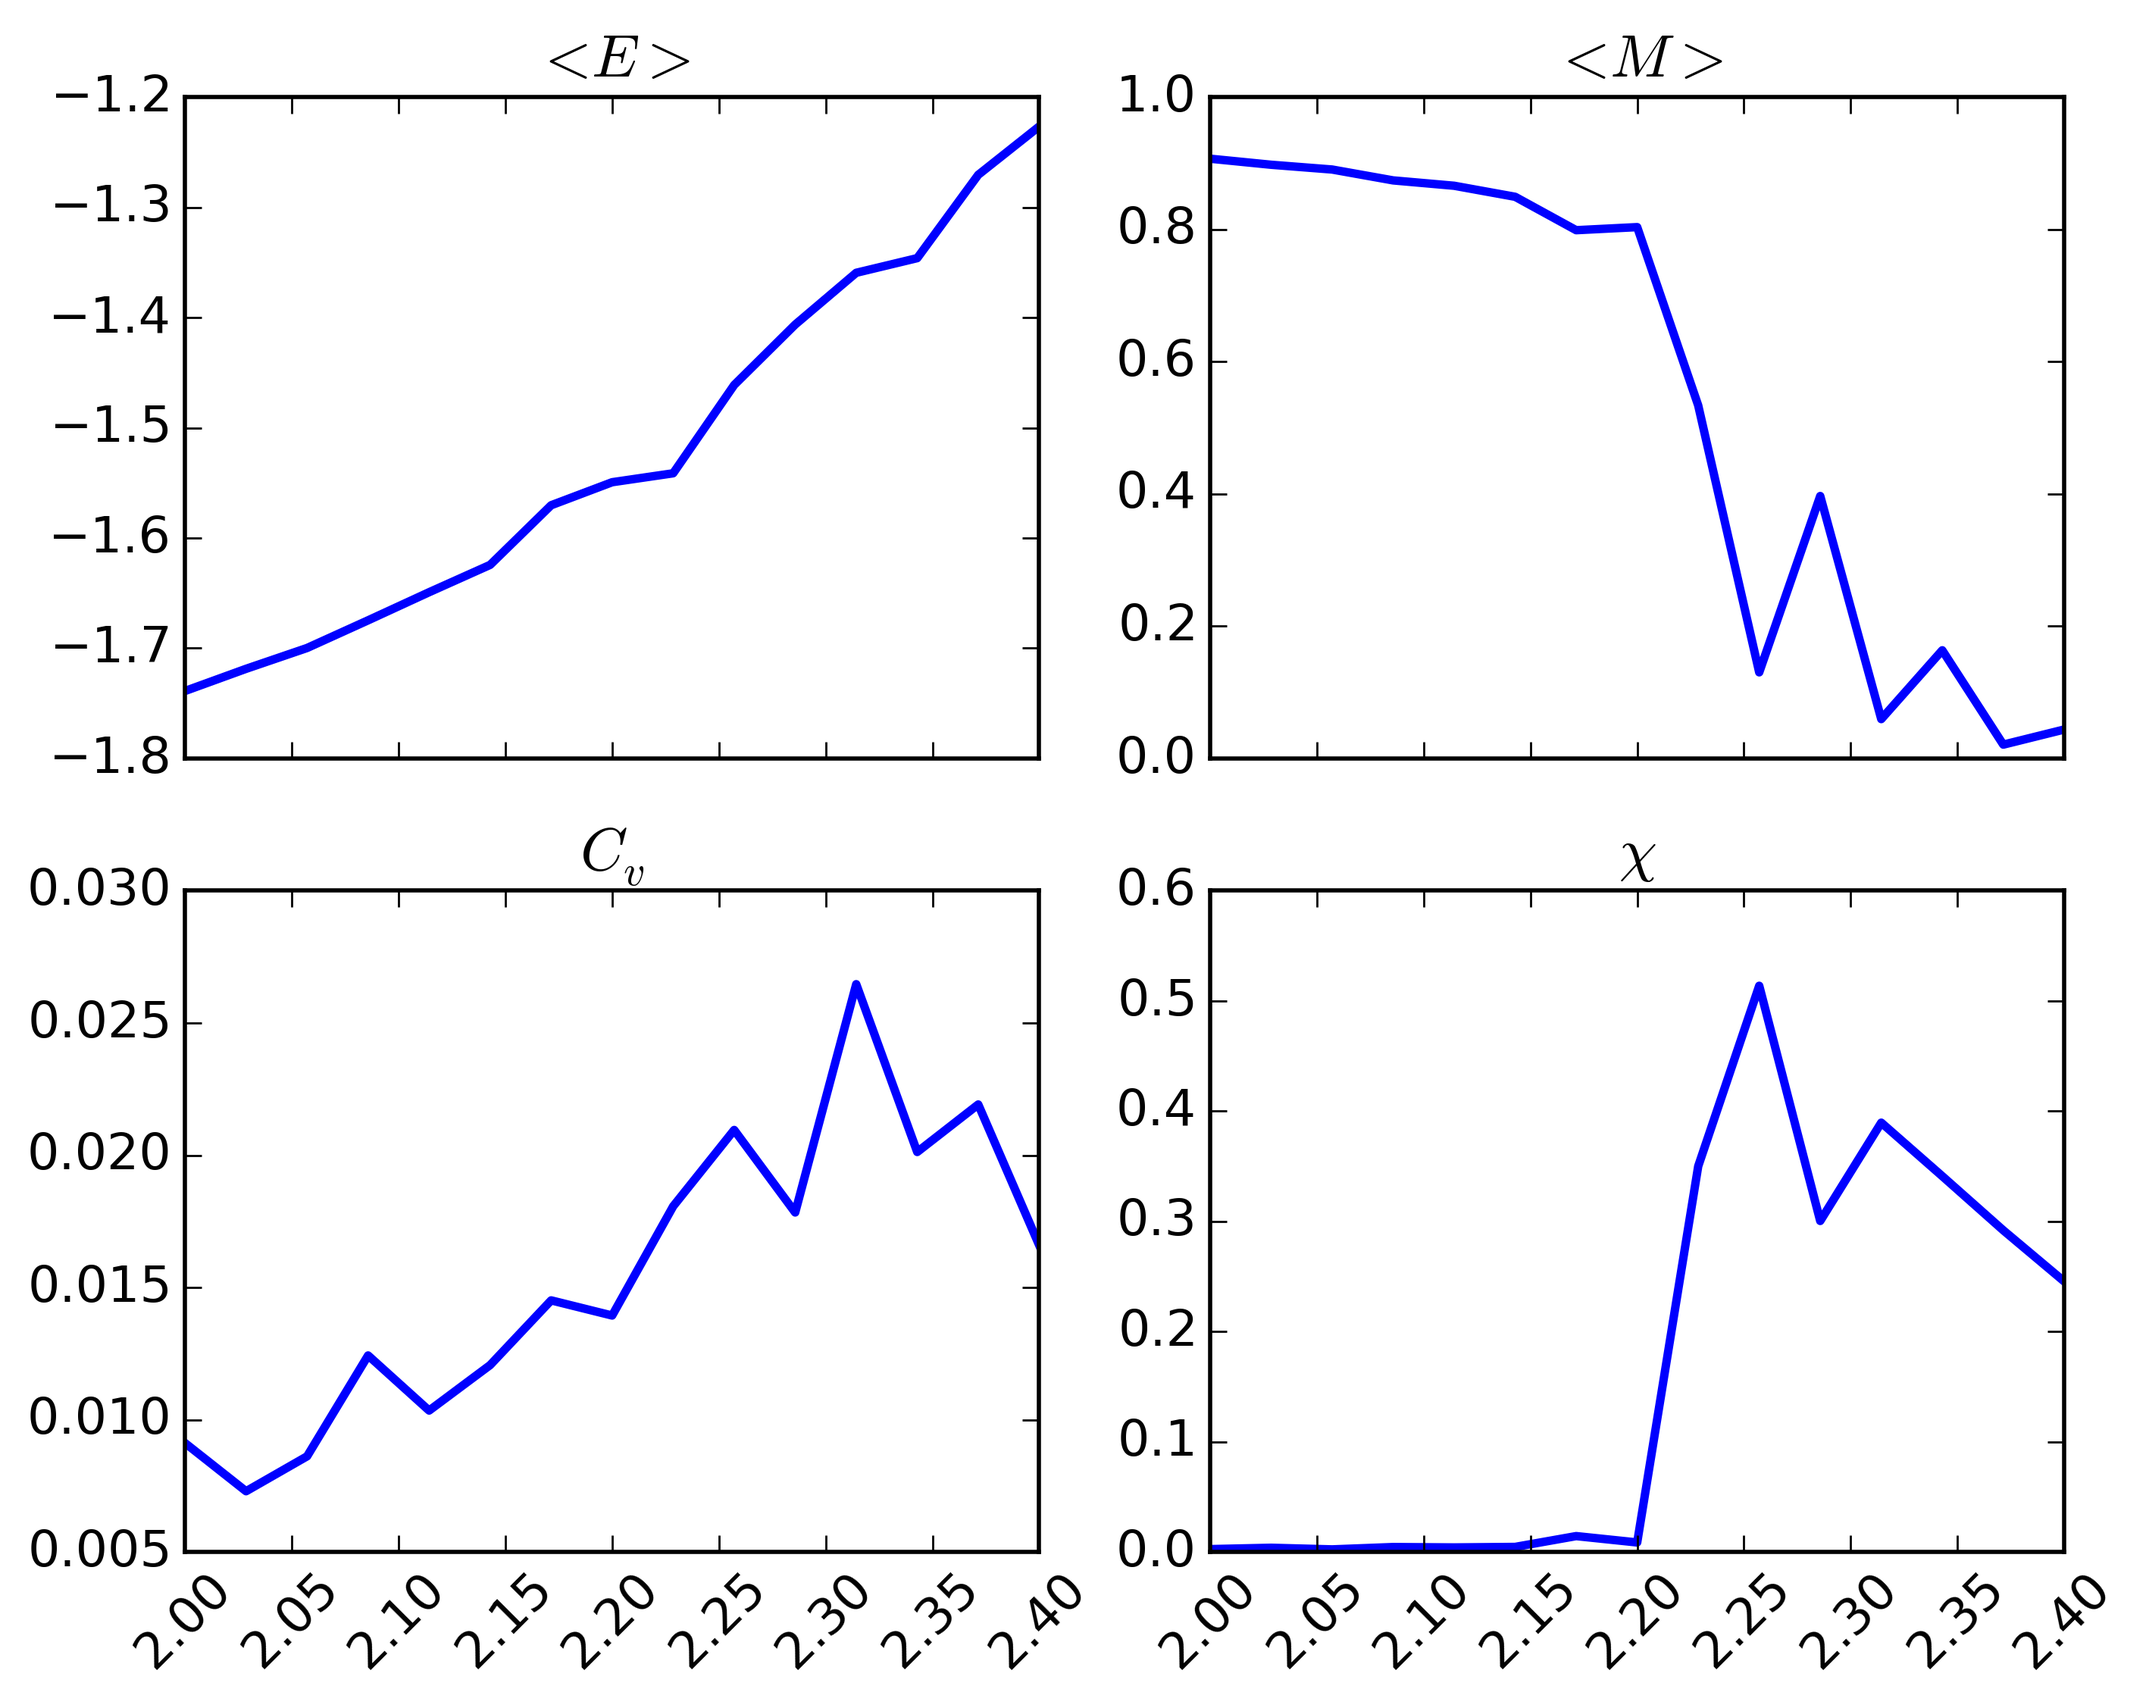
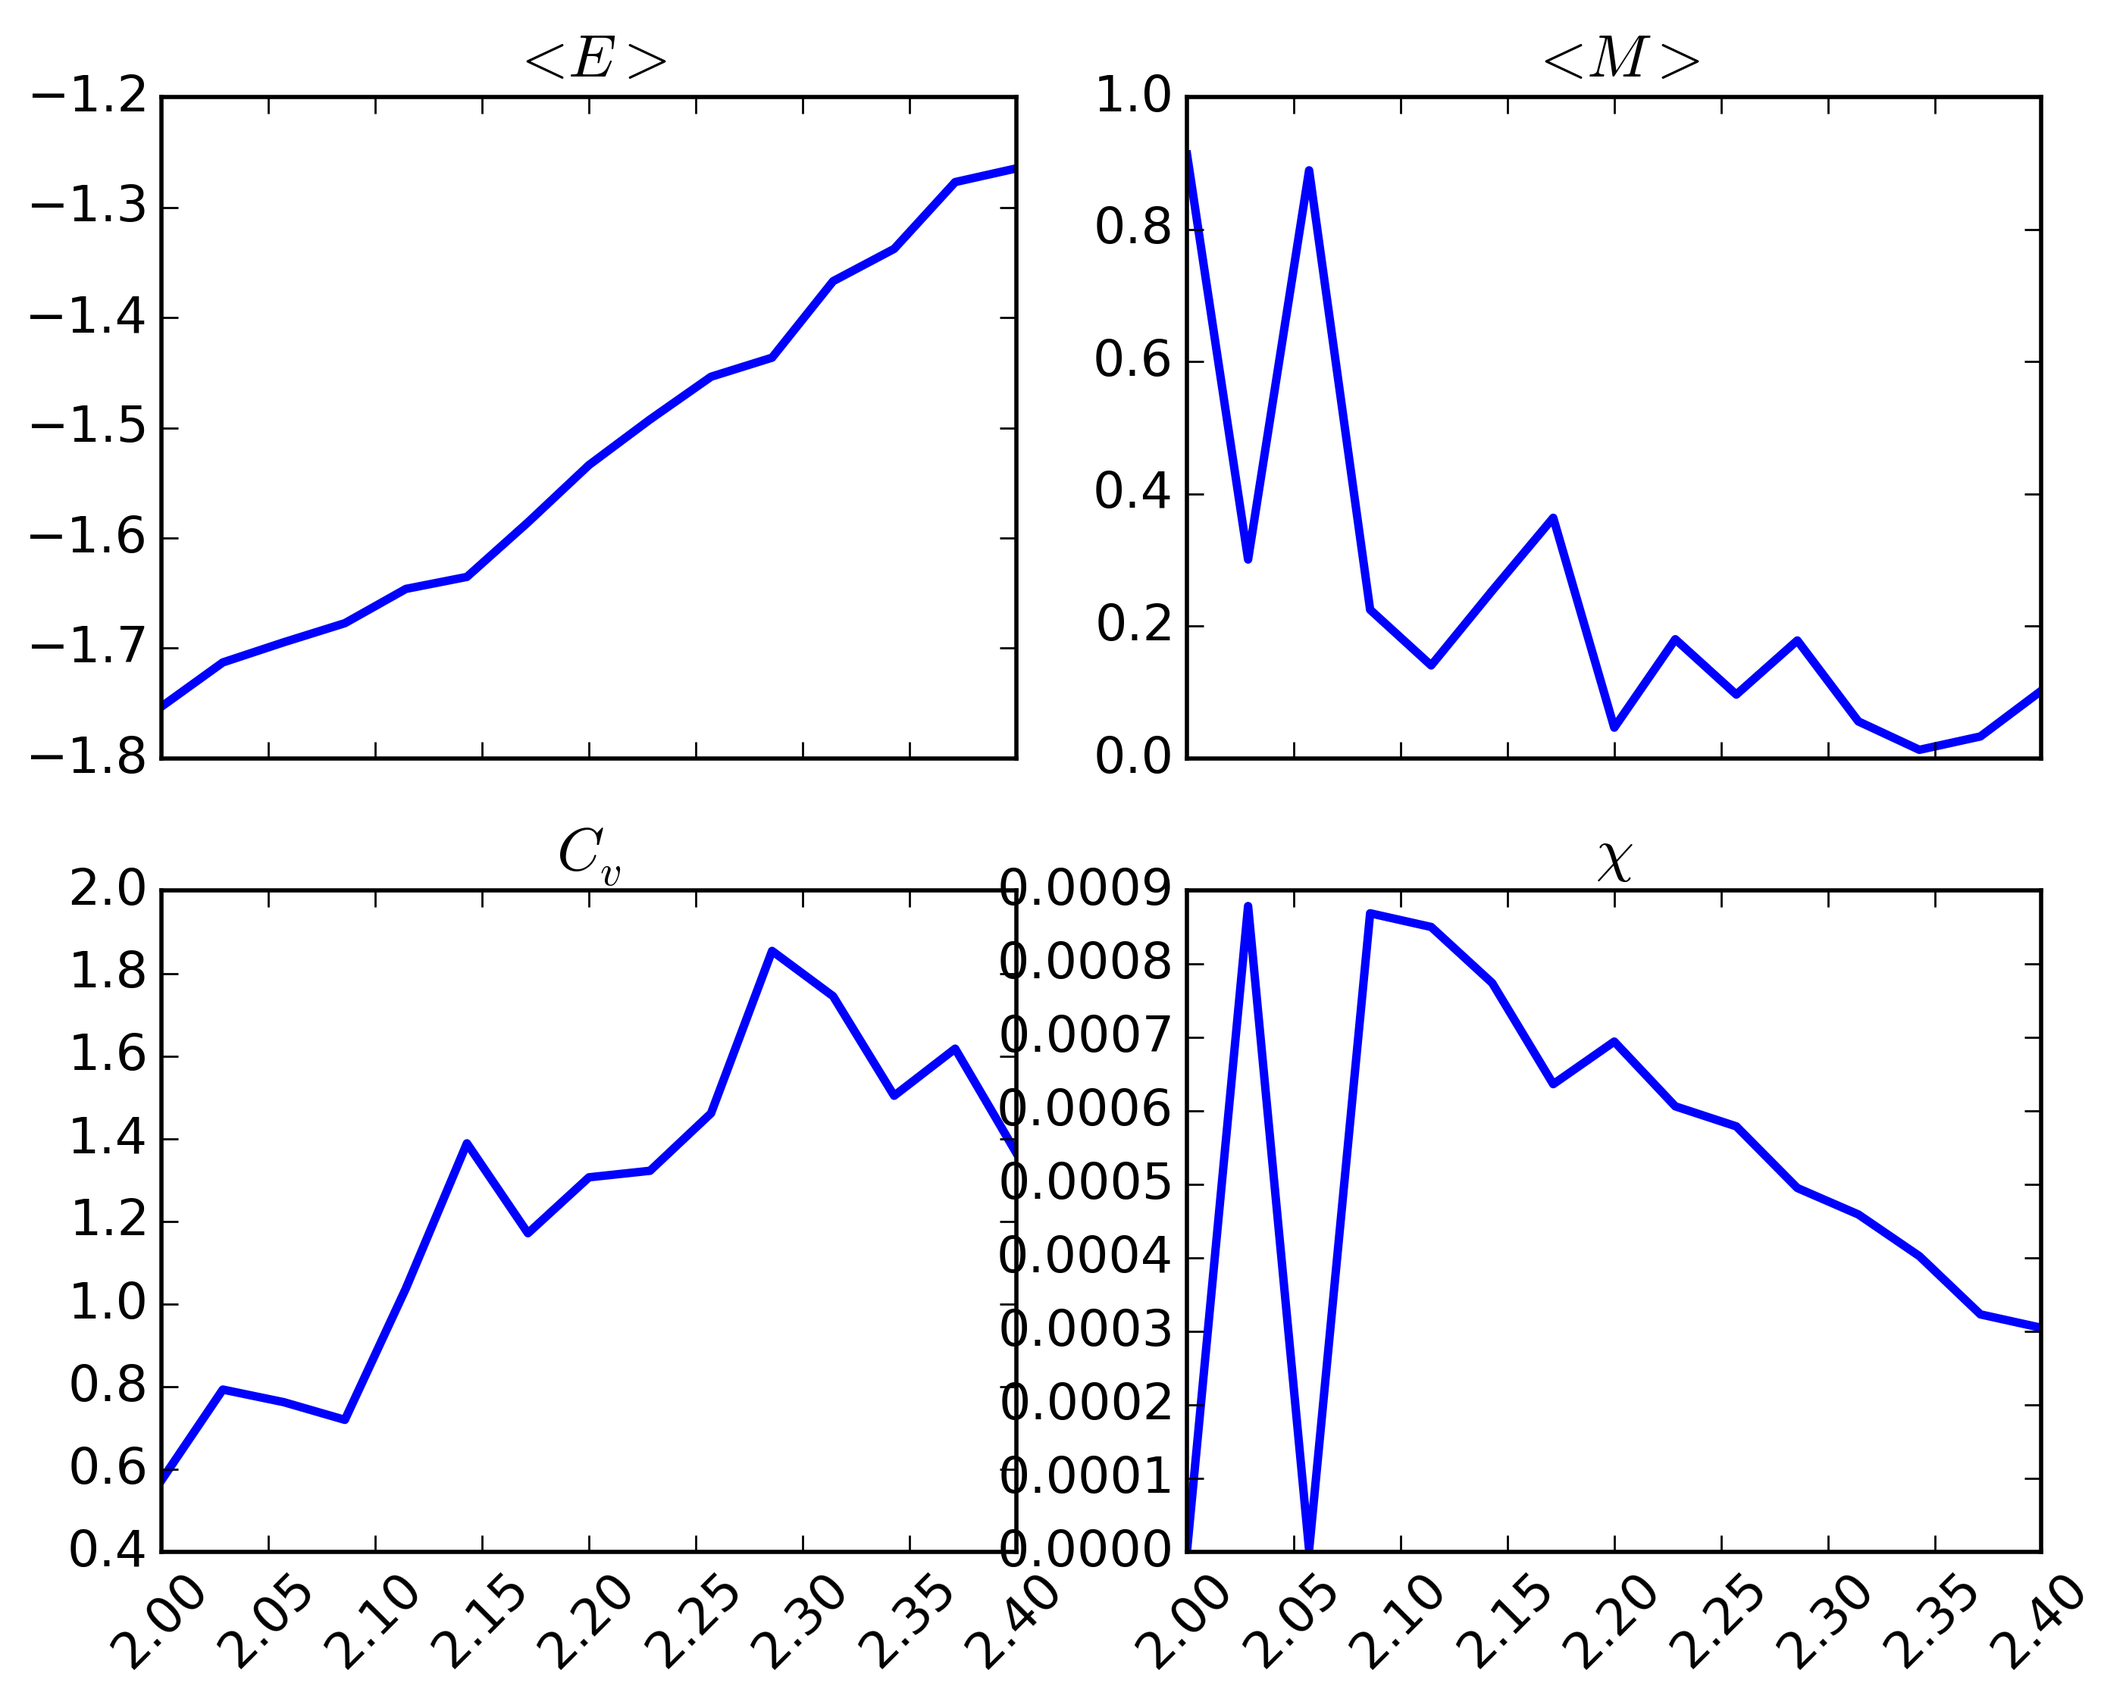
Add more pictures to project

diff --git a/Project 4/src/main.cpp b/Project 4/src/main.cpp
@@ -46,7 +46,8 @@ int main(const int argc, const char **argv)
   if (argc>2 && !std::strcmp(argv[1], "b")){
     
     const double T = std::atoi(argv[2]);
-    Ising model(2, global_seed, 1/T, 'r');
+    const double beta = 1.0/T;
+    Ising model(2, global_seed, beta, 'r');
     
     
     const int N = std::atoi(argv[2]);
@@ -57,7 +58,10 @@ int main(const int argc, const char **argv)
     
     model.find_statistics(N, 100, E, sigmaE, M, sigmaM, ar);
     
-    std::cout << E << " " << M << " " << sigmaE << " " << sigmaM << std::endl;
+    
+    
+    std::cout << E << " " << M << " " << cv(beta, 4, sigmaE) << " "
+              << chi(beta, 4, sigmaM) << std::endl;
     
   }
   
@@ -116,11 +120,9 @@ int main(const int argc, const char **argv)
     const int M = std::atoi(argv[3]);
     const int Ntherm = 5000;
     
-    Ising random(L, global_seed, 1/T, 'r');
-    //Ising ordered(L, global_seed+1, 1/T, 'u');
+    Ising random(L, global_seed, 1.0/T, 'r');
     
     random.thermalise(Ntherm);
-    //ordered.thermalise(Ntherm);
     
     std::map<int,int> E;
     
@@ -139,15 +141,15 @@ int main(const int argc, const char **argv)
     const int dim = std::atoi(argv[2]);
     
     const int Ntemps = 15;
-    const int Ntherm = 100000;
+    const int Ntherm = 1000000;
     const int Nmeasurements = 100;
   
 
   
-    double *T, *E, *Cv, *M, *chi, *ar;
+    double *T, *E, *cv, *M, *chi, *ar;
     T = new double[Ntemps];
     E = new double[Ntemps];
-    Cv = new double[Ntemps];
+    cv = new double[Ntemps];
     M = new double[Ntemps];
     chi = new double[Ntemps];
     ar = new double[Ntemps];
@@ -161,14 +163,21 @@ int main(const int argc, const char **argv)
       Ising model(dim, seed, 1/T[ii], 'r');
       model.thermalise(Ntherm);
       
-      model.find_statistics(Ntherm, Nmeasurements, E[ii], Cv[ii], M[ii], chi[ii], ar[ii]);
+      model.find_statistics(Ntherm, Nmeasurements, E[ii], cv[ii], M[ii], chi[ii], ar[ii]);
     }
     
-    print_to_file(T, E, Cv, M, chi, ar, Ntemps);
+    #pragma omp parallel for default(shared)
+    for (int ii=0; ii<Ntemps; ii++){ // modifying cv and chi to be dependent on beta and N
+      cv[ii] *= dim*dim/(T[ii]*T[ii]);
+      chi[ii] /= (dim*dim)*T[ii];
+    }
+      
+    
+    print_to_file(T, E, cv, M, chi, ar, Ntemps);
     
     delete[] T;
     delete[] E;
-    delete[] Cv;
+    delete[] cv;
     delete[] M;
     delete[] chi;
     delete[] ar;

diff --git a/Project 4/plot_ising.py b/Project 4/plot_ising.py
@@ -78,8 +78,8 @@ if (False):
   plt.xlabel('Number of MC cycles')
   plt.ylabel('Property per particle')
   plt.title('Energy and magnetism for ordered/unordered start with lattice size 20x20')
-  filename = os.path.join(saveloc, 'cEM{}.png'.format(T))
-  plt.savefig(filename,dpi=400,bbox_inches='tight')
+  pic_filename = os.path.join(saveloc, 'cEM{}.png'.format(T))
+  plt.savefig(pic_filename,dpi=400,bbox_inches='tight')
   plt.show()
 
   plt.plot(ao,label='Ordered start',linewidth=2)
@@ -90,8 +90,8 @@ if (False):
   plt.xlabel('Number of MC cycles')
   plt.ylabel('Accumulated accepted flips')
   plt.title('Number of acceptances for ordered/unordered start with lattice size 20x20')
-  filename = os.path.join(saveloc, 'cA{}.png'.format(T))
-  plt.savefig(filename,dpi=400,bbox_inches='tight')
+  pic_filename = os.path.join(saveloc, 'cA{}.png'.format(T))
+  plt.savefig(pic_filename,dpi=400,bbox_inches='tight')
   plt.show()
 
 
@@ -113,17 +113,15 @@ if (False):
   plt.title('Probability for energy in a 20x20 system with T = {}'.format(T))
   plt.xlabel('Energy')
   plt.ylabel('p(E)')
-  filename = os.path.join(saveloc, 'dT={}.png'.format(T))
-  plt.savefig(filename, dpi=400, bbox_inches='tight')
+  pic_filename = os.path.join(saveloc, 'dT={}.png'.format(T))
+  plt.savefig(pic_filename, dpi=400, bbox_inches='tight')
   plt.show()
 
 #e) Critical temperature
-if (True):
-  dim = 20
+for dim in [20, 40, 60, 80, 100]:
   command = ['./project4', 'e', str(dim)]
 
   subprocess.call(command)
-
 
   with open(filename) as f:
     N = int(f.readline().split()[0]);
@@ -168,8 +166,8 @@ if (True):
   for tick in ax[1,1].get_xticklabels():
     tick.set_rotation(45)
 
-  filename = os.path.join(saveloc, 'e{}.png'.format(dim))
-  plt.savefig(filename,dpi=400,bbox_inches='tight')
+  pic_filename = os.path.join(saveloc, 'e{}.png'.format(dim))
+  plt.savefig(pic_filename,dpi=400,bbox_inches='tight')
   plt.show()
     
   

diff --git a/Project 4/src/ising.hpp b/Project 4/src/ising.hpp
@@ -126,15 +126,19 @@ public:
    * over these measurements. The acceptance_rate is the number of accepted
    * spins divided by M
    * 
-   * sigmaE = < E^2 > - < E >^2
+   * sigmaE =  < E^2 > - < E >^2
+   * sigmaM = < M^2 > - < M >^2 
    */
   void find_statistics(const int tau, const int Measurements,
                      double& E, double& sigmaE, double& M, double& sigmaM, 
                      double& acceptance_rate);
 };
 
+//! Returns heat capcity from sigmaE = < E^2 > - < E >^2
+double cv(const double beta, const int Nspins, const double sigmaE);
 
-
+//! Returns magnetic susceptibility from sigmaM = < M^2 > - < M >^2
+double chi(const double beta, const int Nspins, const double sigmaM);
 
 
 #endif

diff --git a/Project 4/src/ising.cpp b/Project 4/src/ising.cpp
@@ -214,3 +214,13 @@ void Ising::find_statistics(const int tau, const int Measurements,
   sigmaE = (Esq - E*E);
   sigmaM = (Msq - M*M);
 }
+
+double cv(const double beta, const int Nspins, const double sigmaE)
+{
+  return beta*beta*Nspins*sigmaE;
+}
+
+double chi(const double beta, const int Nspins, const double sigmaM)
+{
+  return beta*sigmaM/Nspins;  
+}
